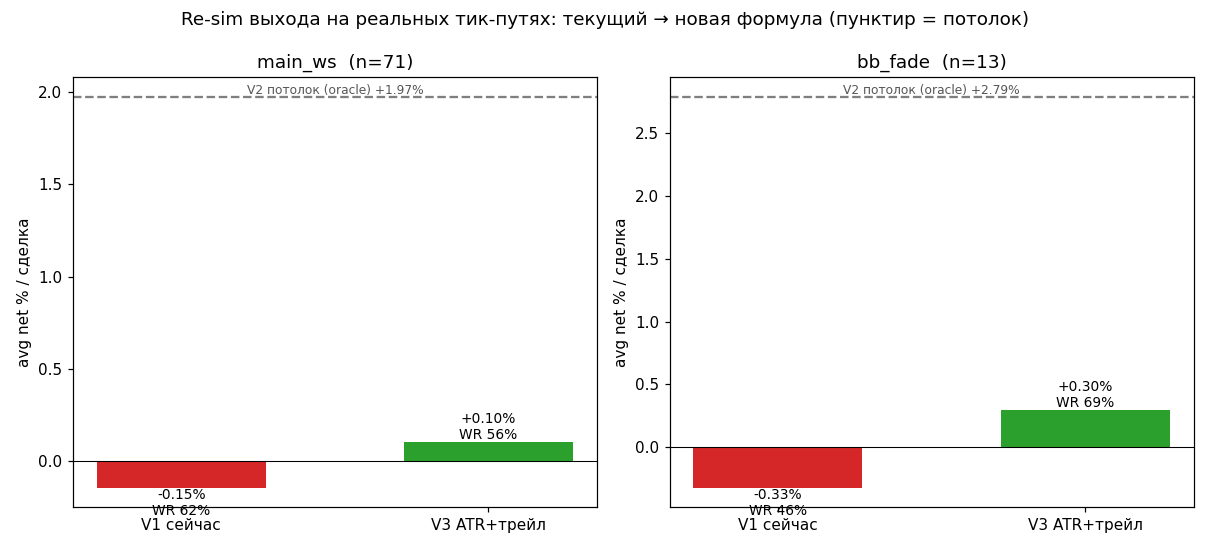
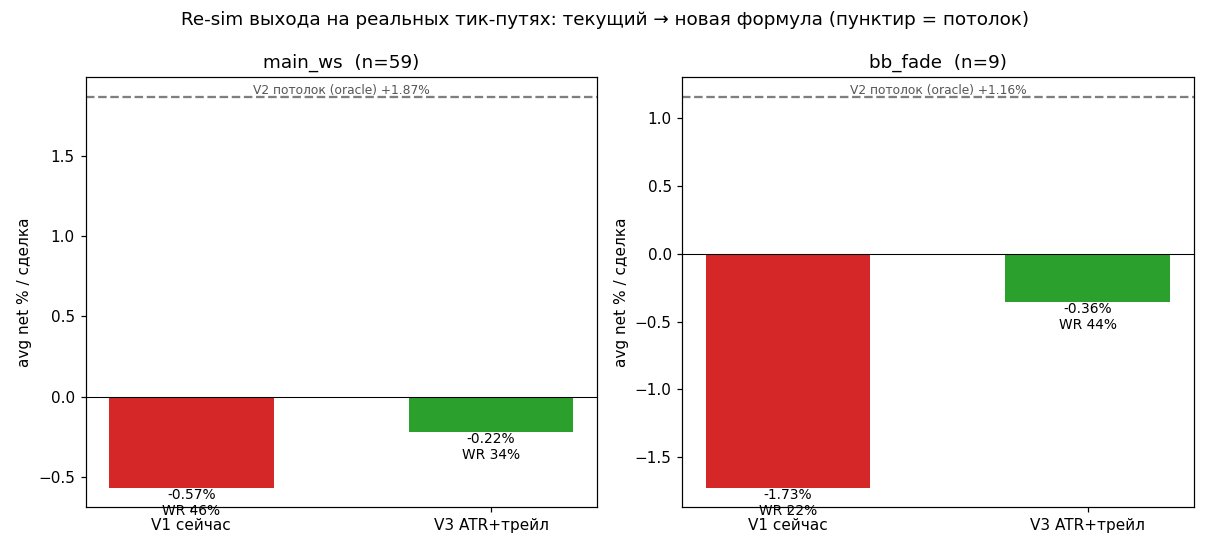
research(geometry): fill-verified re-sim+sweep - V3 edge was phantom
Re-ran exit re-sim and sweep entering only at the bar price actually reaches
the entry LEVEL (hold anchored from fill), not at signal time.
- main_ws (n=59 fills): V1 -0.57% / V3 -0.22% / oracle +1.87%. Sweep: train
  negative across the WHOLE grid - the earlier "green plateau / +0.4%" was an
  artifact of phantom (unfilled) trades + entering at the favorable signal price.
- bb_fade (n=9): all negative.
On real fills neither current exit nor ATR-stop+trail is positive. Opportunity
exists post-fill (oracle +1.87%) but adverse comes first on pullback-limit fills
-> any stop tags out before the move. Problem is deeper than exit (entry/fill
adverse selection).

HONEST conclusion: "main_ws thin-positive, fixable by exit" was built on the
labeler phantom-fill bug. On clean data no demonstrated edge yet. Priority #1:
fix label_outcomes.py (fill+stop) so all metrics are honest, then re-evaluate.
Paper only; prod untouched.

diff --git a/scripts/analysis/research/geometry_resim.py b/scripts/analysis/research/geometry_resim.py
@@ -143,18 +143,26 @@ def main():
         v1 = []; v2 = []; v3 = []
         for t in clean:
             H = hold_min(t)
-            ticks = load_ticks(t["sym"], t["t0"] - 25 * 60000, t["t0"] + (H + 5) * 60000)
+            ticks = load_ticks(t["sym"], t["t0"] - 25 * 60000, t["t0"] + (2 * H + 10) * 60000)
             bars = resample(ticks)
             if len(bars) < 6:
                 continue
             ei = next((i for i, b in enumerate(bars) if b[0] >= t["t0"]), 0)
-            end_i = next((i for i, b in enumerate(bars) if b[0] >= t["t0"] + H * 60000), len(bars))
-            if end_i <= ei + 1:
+            # FILL-verify: enter only at the bar where price actually reaches the entry level,
+            # within the signal's fill-search window (t0 .. t0+H); hold is anchored FROM the fill.
+            search_end = next((i for i, b in enumerate(bars) if b[0] >= t["t0"] + H * 60000), len(bars))
+            e = t["entry"]; s = sgn(t["side"])
+            fi = next((i for i in range(ei, search_end)
+                       if (s > 0 and bars[i][3] <= e) or (s < 0 and bars[i][2] >= e)), None)
+            if fi is None:
+                continue   # never filled within window -> phantom, skip
+            end_i = next((i for i, b in enumerate(bars) if b[0] >= bars[fi][0] + H * 60000), len(bars))
+            if end_i <= fi + 1:
                 continue
-            atr = atr_pre(bars, ei)
-            v1.append(walk_current(bars, ei, t, end_i))
-            v2.append(walk_oracle(bars, ei, t, end_i))
-            v3.append(walk_atr_trail(bars, ei, t, end_i, atr))
+            atr = atr_pre(bars, fi)
+            v1.append(walk_current(bars, fi, t, end_i))
+            v2.append(walk_oracle(bars, fi, t, end_i))
+            v3.append(walk_atr_trail(bars, fi, t, end_i, atr))
         print(f"\n===== {ch}  (всего {len(trades)}, чистых {len(clean)}, с тейпом {len(v1)}) =====")
         print(agg("V1 как сейчас", v1))
         print(agg("V2 потолок", v2))

diff --git a/scripts/analysis/research/geometry_sweep.py b/scripts/analysis/research/geometry_sweep.py
@@ -58,15 +58,22 @@ def build_paths(ch):
     out = []
     for t in sorted((x for x in load_trades() if x["ch"] == ch and is_clean(x)), key=lambda x: x["t0"]):
         H = hold_min(t)
-        ticks = load_ticks(t["sym"], t["t0"] - 25 * 60000, t["t0"] + (H + 5) * 60000)
+        ticks = load_ticks(t["sym"], t["t0"] - 25 * 60000, t["t0"] + (2 * H + 10) * 60000)
         bars = resample(ticks)
         if len(bars) < 6:
             continue
         ei = next((i for i, b in enumerate(bars) if b[0] >= t["t0"]), 0)
-        end_i = next((i for i, b in enumerate(bars) if b[0] >= t["t0"] + H * 60000), len(bars))
-        if end_i <= ei + 1:
+        search_end = next((i for i, b in enumerate(bars) if b[0] >= t["t0"] + H * 60000), len(bars))
+        e = t["entry"]; s = sgn(t["side"])
+        # FILL-verify: enter at the bar where price actually reaches the entry level
+        fi = next((i for i in range(ei, search_end)
+                   if (s > 0 and bars[i][3] <= e) or (s < 0 and bars[i][2] >= e)), None)
+        if fi is None:
             continue
-        out.append(((bars, ei, end_i, sgn(t["side"]), t["entry"]), atr_pre(bars, ei)))
+        end_i = next((i for i, b in enumerate(bars) if b[0] >= bars[fi][0] + H * 60000), len(bars))
+        if end_i <= fi + 1:
+            continue
+        out.append(((bars, fi, end_i, s, e), atr_pre(bars, fi)))
     return out
 
 

diff --git a/docs/geometry/findings.md b/docs/geometry/findings.md
@@ -90,3 +90,16 @@ main_ws: **45%** сигналов с флагами; bb_fade **81%**.
 **Следствие:** sweep V3 гонялся на НЕ-fill-верифицированных сделках → его +0.4% holdout тоже частично фантомный,
 **перепроверить на filled-only.** ФИКС (предложение, не прод-движок): `label_outcomes.py` — (1) проверять, дошла
 ли цена до `entry` (иначе outcome=`NO_FILL`, не TP); (2) форсить SL при пересечении уровня. Это лейблер/журнал, не торговый код.
+
+## ⚠ ЧЕСТНАЯ ПЕРЕОЦЕНКА (fill-verified) — V3-ОПТИМИЗМ СНЯТ
+Перегнал re-sim + sweep с **фил-верификацией** (вход на баре реального достижения уровня `entry`, hold от филла):
+- **main_ws (n=59 филлов): V1 −0.57% / V3 −0.22% / oracle +1.87%.** Sweep: train НЕГАТИВЕН по ВСЕЙ сетке
+  (−0.30…−0.35), holdout — шум (±0.2). **Плато исчезло — прежний «+0.4% / зелёная сетка» был фантомом нефилл-сделок.**
+- **bb_fade (n=9): всё в минусе.**
+- **На РЕАЛЬНЫХ филлах ни текущий выход, ни ATR-стоп+трейл НЕ плюсуют.** Ход после филла ЕСТЬ (oracle +1.87%),
+  но adverse приходит ПЕРВЫМ (откатный лимит-вход филлит в слабость → стоп тагается → потом разворот). Простой
+  стоп/трейл это не ловит — проблема глубже выхода, в **механике входа** (адверс-селекшн лимитки).
+
+**ИТОГ (честно):** нарратив «main_ws тонко-плюсовой, чинится выходом» был построен на **баге лейблера** (фантомные
+филлы). На честных данных — **доказанного эджа у живых каналов НЕТ.** Приоритет №1: **починить лейблер** (fill+stop) —
+без него ВСЕ метрики (журнал/снапшот WR 75-80%) завышены. Потом честная переоценка каналов. Денег нигде нет (paper).
